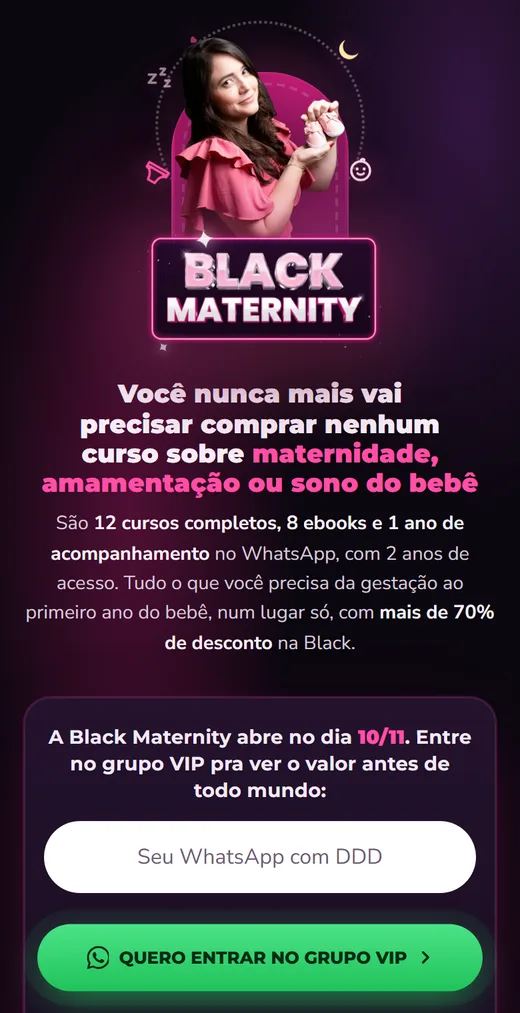
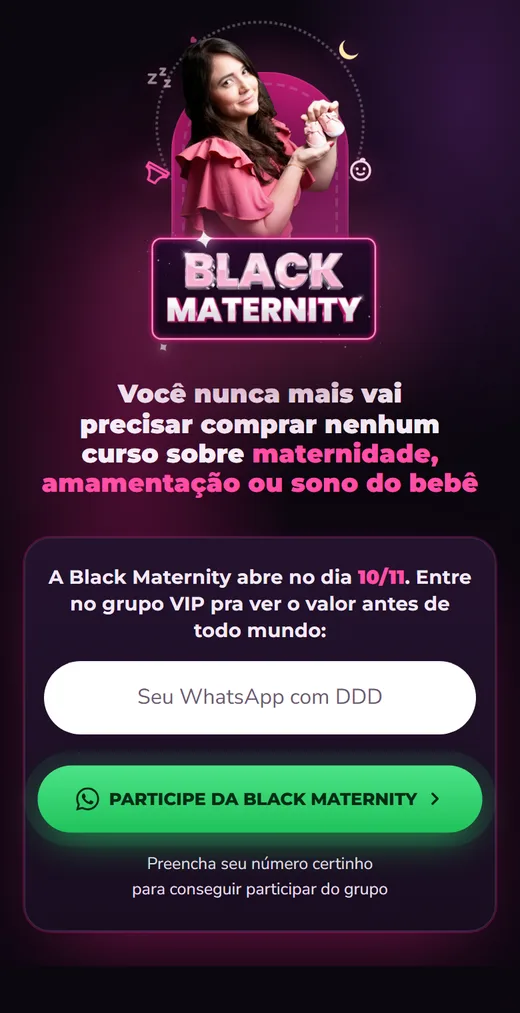
black: vip sem descricao, botao participe

diff --git a/2026-10-26-black-2026/black-maternity/grupo-vip/index.html b/2026-10-26-black-2026/black-maternity/grupo-vip/index.html
@@ -324,13 +324,13 @@ footer{padding:26px 18px calc(26px + env(safe-area-inset-bottom));text-align:cen
     </div>
     <div class="hero-txt">
       <h1>Você nunca mais vai precisar comprar nenhum curso sobre <span class="mag">maternidade, amamentação ou sono do bebê</span></h1>
-      <p class="desc">São <b>12 cursos completos, 8 ebooks e 1 ano de acompanhamento</b> no WhatsApp, com 2 anos de acesso. Tudo o que você precisa da gestação ao primeiro ano do bebê, num lugar só, com <b>mais de 70% de desconto</b> na Black.</p>
+      
       <form class="form" id="cadastro" data-lead="black-maternity" data-versao="vip-topo" data-destino="../entrando-vip/" novalidate>
         <span class="data">A Black Maternity abre no dia <b data-data-curta>10/11</b>. Entre no grupo VIP pra ver o valor antes de todo mundo:</span>
         <input class="hp" name="site" tabindex="-1" autocomplete="off" aria-hidden="true">
         <input id="whats1" name="whatsapp" placeholder="Seu WhatsApp com DDD" inputmode="tel" autocomplete="tel-national" required aria-label="Seu WhatsApp com DDD">
         <span class="erro" role="alert"></span>
-        <button type="submit"><svg viewBox="0 0 24 24" fill="currentColor" aria-hidden="true"><path d="M17.47 14.38c-.3-.15-1.76-.87-2.03-.97-.27-.1-.47-.15-.67.15-.2.3-.77.97-.94 1.17-.17.2-.35.22-.64.07-.3-.15-1.26-.46-2.4-1.48-.89-.79-1.49-1.77-1.66-2.07-.17-.3-.02-.46.13-.6.13-.13.3-.35.45-.52.15-.17.2-.3.3-.5.1-.2.05-.37-.03-.52-.07-.15-.67-1.61-.92-2.2-.24-.58-.49-.5-.67-.51h-.57c-.2 0-.52.07-.79.37-.27.3-1.04 1.02-1.04 2.48 0 1.46 1.07 2.88 1.21 3.07.15.2 2.1 3.2 5.08 4.49.71.31 1.26.49 1.69.63.71.22 1.36.19 1.87.12.57-.09 1.76-.72 2.01-1.41.25-.69.25-1.29.17-1.41-.07-.13-.27-.2-.57-.35M12.05 21.79h-.01a9.9 9.9 0 0 1-5.03-1.38l-.36-.21-3.74.98 1-3.65-.24-.37a9.86 9.86 0 0 1-1.51-5.26c0-5.45 4.44-9.88 9.9-9.88 2.64 0 5.12 1.03 6.99 2.9a9.83 9.83 0 0 1 2.89 6.99c0 5.45-4.44 9.88-9.89 9.88m8.41-18.29A11.82 11.82 0 0 0 12.05 0C5.5 0 .16 5.34.16 11.89c0 2.1.55 4.14 1.59 5.95L.06 24l6.3-1.65a11.88 11.88 0 0 0 5.68 1.45h.01c6.55 0 11.89-5.34 11.89-11.89 0-3.18-1.24-6.16-3.48-8.41"/></svg><span>Quero entrar no grupo VIP</span><svg class="seta" viewBox="0 0 24 24" fill="none" stroke="currentColor" stroke-width="3.2" stroke-linecap="round" stroke-linejoin="round" aria-hidden="true"><path d="m9 5 7 7-7 7"/></svg></button>
+        <button type="submit"><svg viewBox="0 0 24 24" fill="currentColor" aria-hidden="true"><path d="M17.47 14.38c-.3-.15-1.76-.87-2.03-.97-.27-.1-.47-.15-.67.15-.2.3-.77.97-.94 1.17-.17.2-.35.22-.64.07-.3-.15-1.26-.46-2.4-1.48-.89-.79-1.49-1.77-1.66-2.07-.17-.3-.02-.46.13-.6.13-.13.3-.35.45-.52.15-.17.2-.3.3-.5.1-.2.05-.37-.03-.52-.07-.15-.67-1.61-.92-2.2-.24-.58-.49-.5-.67-.51h-.57c-.2 0-.52.07-.79.37-.27.3-1.04 1.02-1.04 2.48 0 1.46 1.07 2.88 1.21 3.07.15.2 2.1 3.2 5.08 4.49.71.31 1.26.49 1.69.63.71.22 1.36.19 1.87.12.57-.09 1.76-.72 2.01-1.41.25-.69.25-1.29.17-1.41-.07-.13-.27-.2-.57-.35M12.05 21.79h-.01a9.9 9.9 0 0 1-5.03-1.38l-.36-.21-3.74.98 1-3.65-.24-.37a9.86 9.86 0 0 1-1.51-5.26c0-5.45 4.44-9.88 9.9-9.88 2.64 0 5.12 1.03 6.99 2.9a9.83 9.83 0 0 1 2.89 6.99c0 5.45-4.44 9.88-9.89 9.88m8.41-18.29A11.82 11.82 0 0 0 12.05 0C5.5 0 .16 5.34.16 11.89c0 2.1.55 4.14 1.59 5.95L.06 24l6.3-1.65a11.88 11.88 0 0 0 5.68 1.45h.01c6.55 0 11.89-5.34 11.89-11.89 0-3.18-1.24-6.16-3.48-8.41"/></svg><span>Participe da Black Maternity</span><svg class="seta" viewBox="0 0 24 24" fill="none" stroke="currentColor" stroke-width="3.2" stroke-linecap="round" stroke-linejoin="round" aria-hidden="true"><path d="m9 5 7 7-7 7"/></svg></button>
         <span class="micro">Preencha seu número certinho para conseguir participar do grupo</span>
       </form>
     </div>
@@ -530,7 +530,7 @@ footer{padding:26px 18px calc(26px + env(safe-area-inset-bottom));text-align:cen
       <input class="hp" name="site" tabindex="-1" autocomplete="off" aria-hidden="true">
       <input id="whats2" name="whatsapp" placeholder="Seu WhatsApp com DDD" inputmode="tel" autocomplete="tel-national" required aria-label="Seu WhatsApp com DDD">
       <span class="erro" role="alert"></span>
-      <button type="submit"><svg viewBox="0 0 24 24" fill="currentColor" aria-hidden="true"><path d="M17.47 14.38c-.3-.15-1.76-.87-2.03-.97-.27-.1-.47-.15-.67.15-.2.3-.77.97-.94 1.17-.17.2-.35.22-.64.07-.3-.15-1.26-.46-2.4-1.48-.89-.79-1.49-1.77-1.66-2.07-.17-.3-.02-.46.13-.6.13-.13.3-.35.45-.52.15-.17.2-.3.3-.5.1-.2.05-.37-.03-.52-.07-.15-.67-1.61-.92-2.2-.24-.58-.49-.5-.67-.51h-.57c-.2 0-.52.07-.79.37-.27.3-1.04 1.02-1.04 2.48 0 1.46 1.07 2.88 1.21 3.07.15.2 2.1 3.2 5.08 4.49.71.31 1.26.49 1.69.63.71.22 1.36.19 1.87.12.57-.09 1.76-.72 2.01-1.41.25-.69.25-1.29.17-1.41-.07-.13-.27-.2-.57-.35M12.05 21.79h-.01a9.9 9.9 0 0 1-5.03-1.38l-.36-.21-3.74.98 1-3.65-.24-.37a9.86 9.86 0 0 1-1.51-5.26c0-5.45 4.44-9.88 9.9-9.88 2.64 0 5.12 1.03 6.99 2.9a9.83 9.83 0 0 1 2.89 6.99c0 5.45-4.44 9.88-9.89 9.88m8.41-18.29A11.82 11.82 0 0 0 12.05 0C5.5 0 .16 5.34.16 11.89c0 2.1.55 4.14 1.59 5.95L.06 24l6.3-1.65a11.88 11.88 0 0 0 5.68 1.45h.01c6.55 0 11.89-5.34 11.89-11.89 0-3.18-1.24-6.16-3.48-8.41"/></svg><span>Quero entrar no grupo VIP</span><svg class="seta" viewBox="0 0 24 24" fill="none" stroke="currentColor" stroke-width="3.2" stroke-linecap="round" stroke-linejoin="round" aria-hidden="true"><path d="m9 5 7 7-7 7"/></svg></button>
+      <button type="submit"><svg viewBox="0 0 24 24" fill="currentColor" aria-hidden="true"><path d="M17.47 14.38c-.3-.15-1.76-.87-2.03-.97-.27-.1-.47-.15-.67.15-.2.3-.77.97-.94 1.17-.17.2-.35.22-.64.07-.3-.15-1.26-.46-2.4-1.48-.89-.79-1.49-1.77-1.66-2.07-.17-.3-.02-.46.13-.6.13-.13.3-.35.45-.52.15-.17.2-.3.3-.5.1-.2.05-.37-.03-.52-.07-.15-.67-1.61-.92-2.2-.24-.58-.49-.5-.67-.51h-.57c-.2 0-.52.07-.79.37-.27.3-1.04 1.02-1.04 2.48 0 1.46 1.07 2.88 1.21 3.07.15.2 2.1 3.2 5.08 4.49.71.31 1.26.49 1.69.63.71.22 1.36.19 1.87.12.57-.09 1.76-.72 2.01-1.41.25-.69.25-1.29.17-1.41-.07-.13-.27-.2-.57-.35M12.05 21.79h-.01a9.9 9.9 0 0 1-5.03-1.38l-.36-.21-3.74.98 1-3.65-.24-.37a9.86 9.86 0 0 1-1.51-5.26c0-5.45 4.44-9.88 9.9-9.88 2.64 0 5.12 1.03 6.99 2.9a9.83 9.83 0 0 1 2.89 6.99c0 5.45-4.44 9.88-9.89 9.88m8.41-18.29A11.82 11.82 0 0 0 12.05 0C5.5 0 .16 5.34.16 11.89c0 2.1.55 4.14 1.59 5.95L.06 24l6.3-1.65a11.88 11.88 0 0 0 5.68 1.45h.01c6.55 0 11.89-5.34 11.89-11.89 0-3.18-1.24-6.16-3.48-8.41"/></svg><span>Participe da Black Maternity</span><svg class="seta" viewBox="0 0 24 24" fill="none" stroke="currentColor" stroke-width="3.2" stroke-linecap="round" stroke-linejoin="round" aria-hidden="true"><path d="m9 5 7 7-7 7"/></svg></button>
     </form>
   </div>
 </section>
